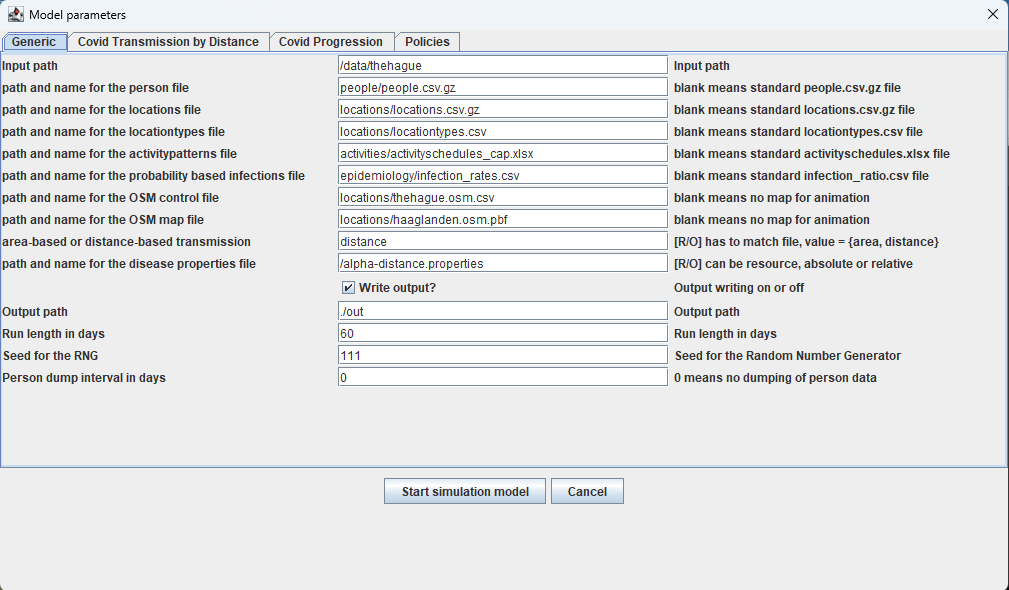
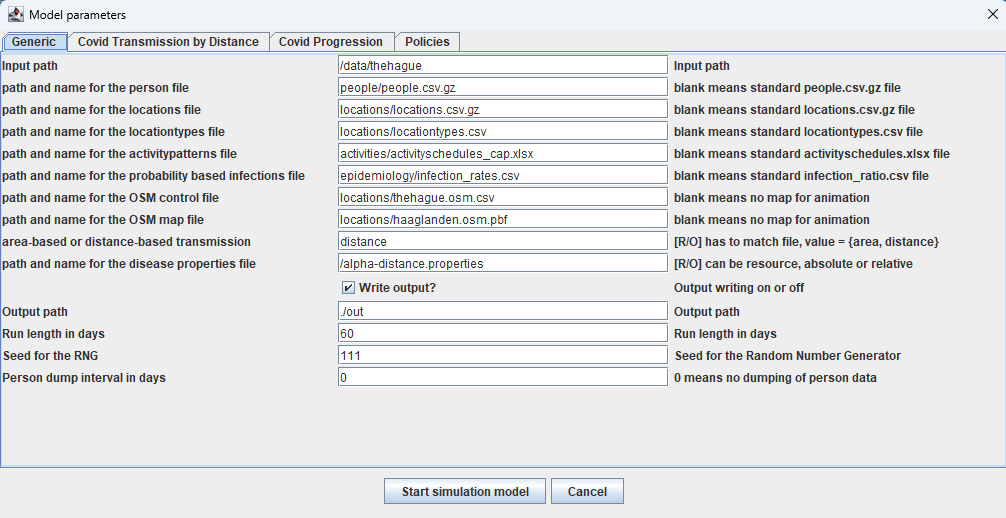
Crop screenshot in README.md

Changed region(s): [[0.0, 0.0, 1.0, 0.8649], [0.0, 0.8958, 1.0, 0.9884], [0.9861, 0.9884, 1.0, 1.0]]

diff --git a/README.md b/README.md
@@ -52,18 +52,18 @@ When the version is 17 or higher, Java can run the heros model.
 |-- data
     |-- thehague
         |-- activities
-            |-- activityschedule.xlsx
+        |   |-- activityschedule.xlsx
         |-- epidemiology
-            |-- infection_rates.csv
-            |-- transition_probabilities.xlsx
+        |   |-- infection_rates.csv
+        |   |-- transition_probabilities.xlsx
         |-- locations
-            |-- locationtypes.csv
-            |-- locations.csv.gz
-            |-- thehague.osm.csv [description of files used in animation]
-            |-- thehague.osm.pbf [example openstreetmap file for background]
-            |-- haaglanden.osm.pbf [example OSM file of a wider region]
+        |   |-- locationtypes.csv
+        |   |-- locations.csv.gz
+        |   |-- thehague.osm.csv [description of files used in animation]
+        |   |-- thehague.osm.pbf [example openstreetmap file for background]
+        |   |-- haaglanden.osm.pbf [example OSM file of a wider region]
         |-- people
-            |-- people.csv.gz
+        |   |-- people.csv.gz
         |-- policies
             |-- HardLockdown_00.csv [could be many policies]
 ```
